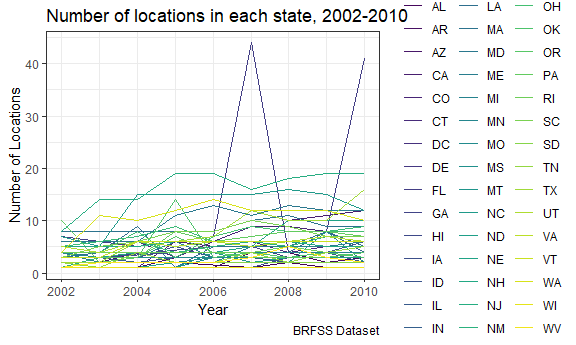
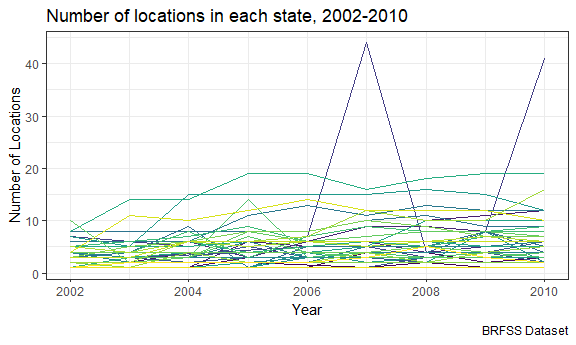
Problem 2 Instacart Tables

diff --git a/p8105_hw3_azz2107.md b/p8105_hw3_azz2107.md
@@ -77,7 +77,7 @@ spaghetti_plot %>%
     y = "Number of Locations",
     caption = "BRFSS Dataset"
   ) + 
-  theme(legend.position = "right")
+  theme(legend.position = "none")
 ```
 
 <img src="p8105_hw3_azz2107_files/figure-markdown_github/spaghetti_plot-1.png" width="100%" />
@@ -186,6 +186,8 @@ aisle_count
     ## 10 bread                          23635
     ## # ... with 124 more rows
 
+\*\* Aisle Count Plot\*\*
+
 ``` r
 # Plot distribution of items ordered from each aisle
 ggplot(aisle_count, aes(x = reorder(aisle, order(n, decreasing = TRUE)), y = n)) +
@@ -202,6 +204,52 @@ ggplot(aisle_count, aes(x = reorder(aisle, order(n, decreasing = TRUE)), y = n))
 ```
 
 <img src="p8105_hw3_azz2107_files/figure-markdown_github/plot_aisle_count-1.png" width="100%" />
+
+#### Popular aisle items
+
+``` r
+# Subset and group instacart_df to products of interest
+# Count products and then rank them to see most popular purchases
+instacart_df %>% 
+  filter(aisle %in% c("baking ingredients", 
+                      "dog food care", 
+                      "packaged vegetables fruits")) %>% 
+  group_by(aisle, product_name) %>% 
+  summarize(n = n()) %>% # Counts by group
+  mutate(product_rank = min_rank(desc(n))) %>% 
+  filter(product_rank == 1) %>% 
+  knitr::kable()
+```
+
+| aisle                      | product\_name                                 |     n|  product\_rank|
+|:---------------------------|:----------------------------------------------|-----:|--------------:|
+| baking ingredients         | Light Brown Sugar                             |   499|              1|
+| dog food care              | Snack Sticks Chicken & Rice Recipe Dog Treats |    30|              1|
+| packaged vegetables fruits | Organic Baby Spinach                          |  9784|              1|
+
+#### Average time of day
+
+``` r
+# Subset instacart data to products of interest and times
+# Summarize average hour of the day and spread dataset into table format
+instacart_df %>% 
+  filter(product_name %in% c("Pink Lady Apples", "Coffee Ice Cream")) %>% 
+  select(product_name, order_hour_of_day, order_dow) %>% 
+  group_by(order_dow, product_name) %>% 
+  summarize(mean_hour = mean(order_hour_of_day, na.rm = TRUE)) %>% 
+  spread(key = product_name, value = mean_hour) %>% 
+  knitr::kable()
+```
+
+|  order\_dow|  Coffee Ice Cream|  Pink Lady Apples|
+|-----------:|-----------------:|-----------------:|
+|           0|          13.77419|          13.44118|
+|           1|          14.31579|          11.36000|
+|           2|          15.38095|          11.70213|
+|           3|          15.31818|          14.25000|
+|           4|          15.21739|          11.55172|
+|           5|          12.26316|          12.78431|
+|           6|          13.83333|          11.93750|
 
 Problem 3
 ---------
